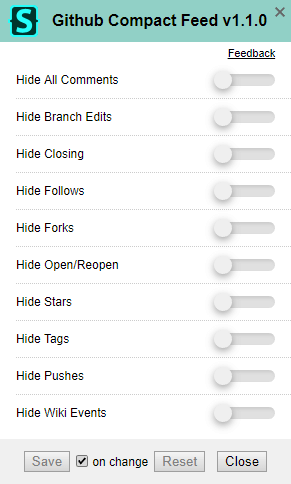
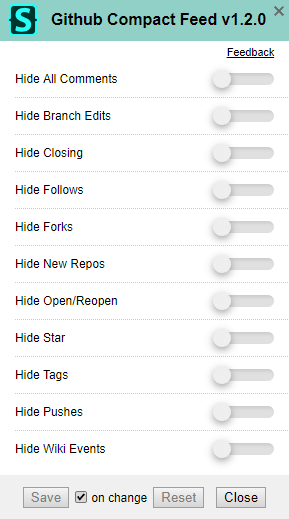
1.2.0

diff --git a/github-compact-feed.user.css b/github-compact-feed.user.css
@@ -1,7 +1,7 @@
 /* ==userstyle==
 @name         Github Compact Feed
 @namespace    StylishThemes
-@version      1.1.1
+@version      1.2.0
 @description  Compact and hide details in the news feed
 @author       StylishThemes
 @homepageURL  https://github.com/StylishThemes/Github-Compact-Feed

diff --git a/README.md b/README.md
@@ -2,6 +2,12 @@
 
 A userstyle that compacts and hides details in the news feed.
 
+Almost all details are hidden in the feed, except:
+
+* New repos and repos made public.
+* Pull request details.
+* Wiki changes maintain a link to the diff.
+
 ## Preview
 
 | Before | After |
